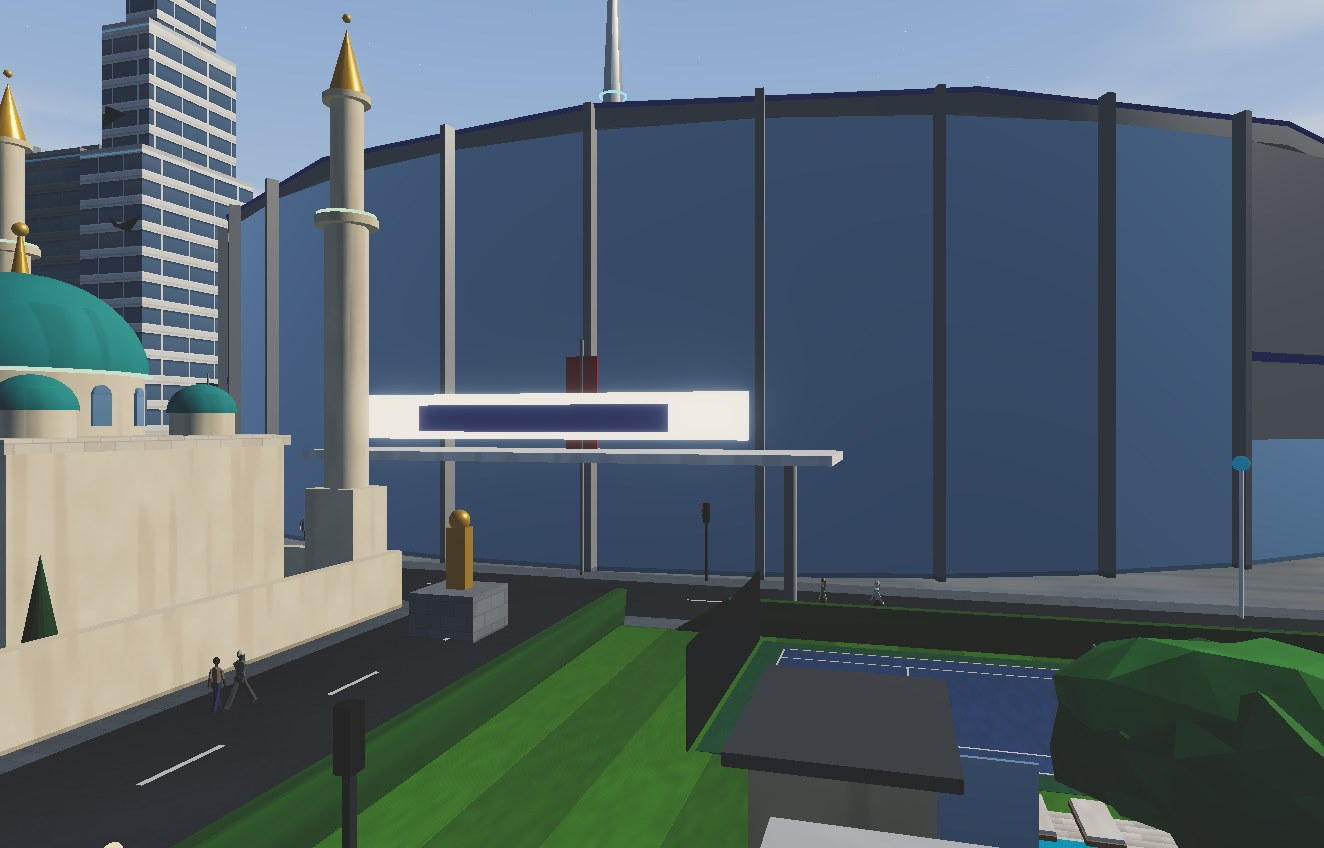
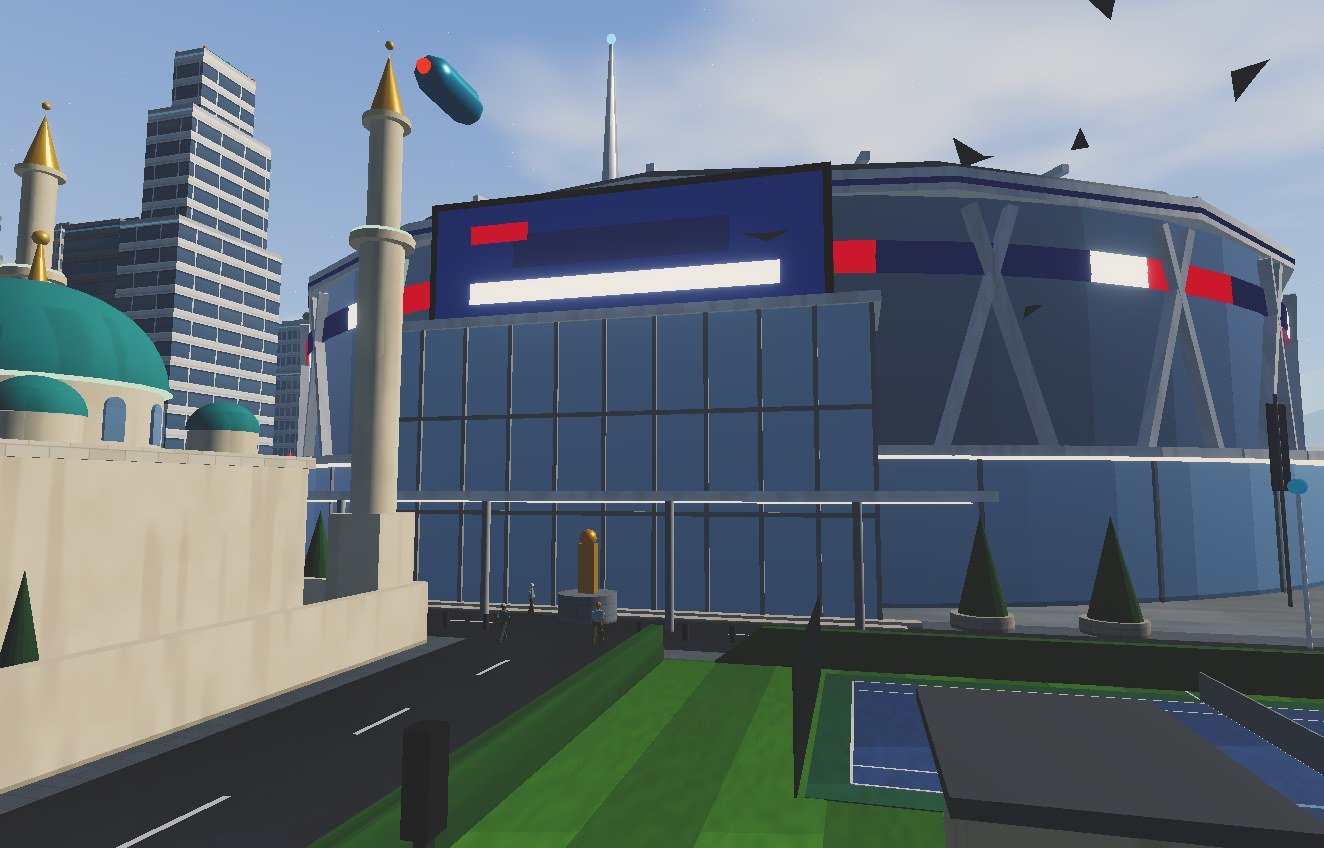
Arena exterior: glazed concourse under a lit canopy ring, leaning X fins on a set-back drum, LED media ribbon, stepped ribbed roof with lantern, entrance atrium with video wall and plaza
Claude-Session: https://claude.ai/code/session_014yo4DpHJhzR4RbKay17FEp

diff --git a/src/explorer/venues.ts b/src/explorer/venues.ts
@@ -486,59 +486,115 @@ export function nbaArena(add: Add, b: Building) {
   for (const [u, v, w, d] of [[0, 2.25, 5.8, 0.08], [0, -2.25, 5.8, 0.08], [3.05, 0, 0.08, 4.2], [-3.05, 0, 0.08, 4.2]] as const) A('box', 'glow', u, sy - 2.2, v, w, 1.6, d, '#2a6ad8');
   for (const s of [-1, 1]) for (const t of [-1, 1]) A('cyl', 'metal', s * 3.5, sy + 6, t * 2.6, 0.08, H - sy - 6, 0.08, '#8a8f96');
 
-  // ── the building: a glazed elliptical drum, metal fins, a roof with a glass skylight
-  const segs = 40;
+  // ── the building, in three layers: a glazed concourse ring at street level under a lit
+  // canopy, an upper drum set back behind leaning fins with an LED media ribbon, and a stepped
+  // roof of rings and radial ribs crowned by a glass lantern. The drum clears the bowl, whose
+  // outer rows reach about 57.4 m from the centre.
+  const R1 = Math.min(EW, ED) - 2;
+  const R2 = R1 - 3.5;
   const shellH = H - 4;
-  for (let k = 0; k < segs; k++) {
-    const a0 = (k / segs) * Math.PI * 2;
-    const a1 = ((k + 1) / segs) * Math.PI * 2;
-    const x0 = Math.cos(a0) * EW;
-    const z0 = Math.sin(a0) * ED;
-    const x1 = Math.cos(a1) * EW;
-    const z1 = Math.sin(a1) * ED;
-    const len = Math.hypot(x1 - x0, z1 - z0);
-    // box x along the segment: a turn of theta about y sends x to (cos theta, -sin theta)
-    const ang = Math.atan2(-(z1 - z0), x1 - x0);
-    const mx = (x0 + x1) / 2;
-    const mz = (z0 + z1) / 2;
-    // the main entrance (on +v) is all glass, the rest is glass below and metal panels above
-    const front = Math.sin((a0 + a1) / 2) > 0.85;
-    A('box', 'glass', mx, 0, mz, len + 0.1, front ? shellH : 8, 0.4, '#7aa0b8', ang);
-    if (!front) {
-      A('box', 'metal', mx, 8, mz, len + 0.1, shellH - 8, 0.5, k % 2 ? '#d6dbe2' : '#c6ccd4', ang);
-      A('box', 'glow', mx * 1.004, 13 + (k % 4) * 0.01, mz * 1.004, len + 0.1, 0.6, 0.2, team, ang);
+  const ring = (r: number, n: number, fn: (a: number, x: number, z: number, len: number, ang: number, k: number) => void) => {
+    for (let k = 0; k < n; k++) {
+      const a = ((k + 0.5) / n) * Math.PI * 2;
+      const len = (2 * Math.PI * r) / n;
+      // a box's local x points along (cos t, -sin t) after a turn t; the tangent at a is (-sin a, cos a)
+      fn(a, Math.cos(a) * r, Math.sin(a) * r, len, -a - Math.PI / 2, k);
     }
-    A('box', 'metal', x0 * 1.01, 0, z0 * 1.01, 0.5, shellH + 1.4, 0.9, '#e8ebef', ang);
+  };
+  const isFront = (a: number) => Math.sin(a) > 0.9;
+  // concourse: floor-to-ceiling glass with mullions, a white floor slab above; the glass stops
+  // only where the entrance atrium (30 m wide) stands in front of it
+  ring(R1, 64, (_a, x, z, len, ang, k) => {
+    if (z > 0 && Math.abs(x) < 15) return;
+    A('box', 'glass', x, 0, z, len + 0.05, 9, 0.3, '#7aa0b8', ang);
+    if (k % 2 === 0) A('box', 'metal', x * 1.003, 0, z * 1.003, 0.25, 9, 0.35, '#e8ebef', ang);
+  });
+  // the canopy is a ring of segments (a solid disc would cut across the bowl inside)
+  ring(R1 + 0.5, 64, (_a, x, z, len, ang) => {
+    A('box', 'plaster', x, 9, z, len + 0.1, 0.6, 6, '#f2f4f6', ang);
+    A('box', 'glow', x * 1.02, 8.92, z * 1.02, len + 0.1, 0.08, 3.5, '#fff2dc', ang);
+  });
+  // upper drum: dark glass behind leaning fins
+  ring(R2, 48, (_a, x, z, len, ang, k) => {
+    A('box', 'glass', x, 9.6, z, len + 0.05, shellH - 9.6, 0.3, '#3e566c', ang);
+    A('box', 'plaster', x * 1.012, 9.6, z * 1.012, 0.7, shellH - 9.6, 0.9, k % 2 ? '#f4f6f8' : '#d8dde4', ang, 0, k % 2 ? 0.32 : -0.32);
+  });
+  // LED media ribbon: blocks of team colour, second colour and white chasing round the drum
+  ring(R2 + 0.6, 72, (_a, x, z, len, ang, k) => {
+    const c = k % 6 < 3 ? team : k % 6 < 5 ? team2 : '#ffffff';
+    A('box', 'glow', x, shellH - 5.5, z, len + 0.05, 2.2, 0.12, c, ang);
+  });
+  // roof: a white rim, then stepped rings with radial ribs, then the lantern
+  A('cyl', 'plaster', 0, shellH, 0, R2 * 2 + 3, 1.6, R2 * 2 + 3, '#f2f4f6');
+  A('cyl', 'glow', 0, shellH + 0.5, 0, R2 * 2 + 3.15, 0.4, R2 * 2 + 3.15, team);
+  const steps = [R2 - 1, R2 - 12, R2 - 22, R2 - 31];
+  steps.forEach((r, k) => A('cyl', 'metal', 0, shellH + 1.6 + k * 1.5, 0, r * 2, 1.5, r * 2, k % 2 ? '#e6e9ed' : '#d6dbe1'));
+  for (let k = 0; k < 24; k++) {
+    const a = (k / 24) * Math.PI * 2;
+    for (let st2 = 0; st2 < steps.length - 1; st2++) {
+      const r0 = steps[st2];
+      const r1 = steps[st2 + 1];
+      const rm = (r0 + r1) / 2;
+      // ribs lie on top of each ring, running inwards
+      A('box', 'plaster', Math.cos(a) * rm, shellH + 1.6 + (st2 + 1) * 1.5, Math.sin(a) * rm, r0 - r1, 0.6, 0.6, '#f4f6f8', -a);
+    }
   }
-  // the ceiling seen from the bowl (an elliptical slab), the roof outside with a lit rim and a
-  // raised lantern of glass louvres over the court
+  const lr = steps[steps.length - 1] - 6;
+  A('cyl', 'glass', 0, shellH + 1.6 + steps.length * 1.5, 0, lr * 2, 3.2, lr * 2, '#9ec4d8');
+  for (let k = 0; k < 16; k++) {
+    const a = (k / 16) * Math.PI * 2;
+    A('box', 'plaster', Math.cos(a) * lr, shellH + 1.6 + steps.length * 1.5, Math.sin(a) * lr, 0.4, 3.2, 0.4, '#f4f6f8');
+  }
+  A('cyl', 'plaster', 0, shellH + 4.8 + steps.length * 1.5, 0, lr * 2 + 2, 0.6, lr * 2 + 2, '#f2f4f6');
+  A('cyl', 'glow', 0, shellH + 4.7 + steps.length * 1.5, 0, lr * 2 + 2.1, 0.15, lr * 2 + 2.1, '#ffffff');
+
+  // the ceiling seen from the bowl, with radial trusses, and the catwalks with light rigs
   const cy = H - 4.5;
-  A('cyl', 'metal', 0, cy, 0, EW * 2 - 0.6, 0.6, ED * 2 - 0.6, '#30343c');
-  for (let k = 0; k < 9; k++) A('box', 'metal', -CL / 2 - 10 + k * ((CL + 20) / 8), cy - 1.6, 0, 0.6, 1.6, ED * 1.6, '#4a4e56');
-  A('cyl', 'metal', 0, shellH, 0, EW * 2 + 1.2, 1.2, ED * 2 + 1.2, '#eceff3');
-  A('cyl', 'glow', 0, shellH + 1.2, 0, EW * 2 + 1.4, 0.3, ED * 2 + 1.4, team);
-  A('cyl', 'metal', 0, shellH + 1.2, 0, EW * 1.5, 2, ED * 1.5, '#e2e6eb');
-  A('cyl', 'glass', 0, shellH + 3.2, 0, CL + 14, 3, CW + 14, '#9ec4d8');
-  A('cyl', 'metal', 0, shellH + 6.2, 0, CL + 15, 0.5, CW + 15, '#eceff3');
-  A('cyl', 'glow', 0, shellH + 3.4, 0, CL + 14.3, 0.25, CW + 14.3, '#ffffff');
-  // catwalk and lighting rigs under the ceiling
+  A('cyl', 'metal', 0, cy, 0, R2 * 2 - 1, 0.6, R2 * 2 - 1, '#30343c');
+  for (let k = 0; k < 12; k++) {
+    const a = (k / 12) * Math.PI;
+    A('box', 'metal', 0, cy - 1.6, 0, R2 * 1.8, 1.6, 0.5, '#4a4e56', a);
+  }
   for (const s of [-1, 1]) {
     A('box', 'metal', 0, cy - 1.2, s * (CW / 2 + 6), CL + 16, 0.3, 1.2, '#5a5e66');
     for (let k = 0; k < 10; k++) A('box', 'glow', -CL / 2 - 6 + k * ((CL + 12) / 9), cy - 1.6, s * (CW / 2 + 6), 0.7, 0.4, 0.7, '#fff6e0');
   }
-  // entrance plaza: canopy, team name sign, statue plinth, banners
-  A('box', 'plaster', 0, 7, ED + 4, 30, 0.5, 8, '#f2f4f6');
-  for (const s of [-1, 1]) A('cyl', 'metal', s * 13, 0, ED + 7.5, 0.6, 7, 0.6, '#d8dce2');
-  A('box', 'glow', 0, 8.2, ED + 7.9, 22, 2.4, 0.3, '#ffffff');
-  A('box', 'glow', 0, 8.6, ED + 8.1, 14, 1.4, 0.2, team);
-  A('box', 'stone', 0, 0, ED + 16, 3, 2, 3, '#8a8f96');
-  A('box', 'gold', 0, 2, ED + 16, 0.9, 2.6, 0.7, '#d8b25a');
-  A('sphere', 'gold', 0, 4.9, ED + 16, 0.9, 0.9, 0.9, '#d8b25a');
-  for (let k = 0; k < 8; k++) {
-    const a = (k / 8) * Math.PI * 2;
-    const px = Math.cos(a) * (EW + 2);
-    const pz = Math.sin(a) * (ED + 2);
-    A('cyl', 'metal', px, 0, pz, 0.2, 14, 0.2, '#c8ccd2');
-    A('box', 'cloth', px, 7, pz, 0.1, 6, 2, k % 2 ? team : team2, a);
+
+  // ── main entrance: a projecting glass atrium with a video wall above, a deep canopy, a plaza
+  const az = R1 - 2;
+  A('box', 'glass', 0, 0, az + 3.5, 30, 17, 7, '#86aec6');
+  for (let k = 0; k <= 10; k++) A('box', 'metal', -15 + k * 3, 0, az + 7.05, 0.25, 17, 0.25, '#e8ebef');
+  for (const y of [5.6, 11.3]) A('box', 'metal', 0, y, az + 7.05, 30, 0.25, 0.25, '#e8ebef');
+  A('box', 'plaster', 0, 17, az + 3.5, 31, 0.6, 7.6, '#f2f4f6');
+  // the video wall: a dark frame, the screen in the club's colours, the team name in light
+  A('box', 'dark', 0, 17.6, az + 4.5, 26, 8.4, 0.8, '#0e1014');
+  A('box', 'glow', 0, 18.1, az + 4.95, 25, 7.4, 0.08, '#14306a');
+  A('box', 'glow', 0, 21.2, az + 5.0, 14, 2.2, 0.06, team);
+  A('box', 'glow', 0, 19.0, az + 5.0, 20, 1.4, 0.06, '#ffffff');
+  A('box', 'glow', -8, 23, az + 5.0, 4, 1.2, 0.06, team2);
+  // canopy over the doors on slender columns, with a lit soffit
+  A('box', 'plaster', 0, 6.5, az + 9, 40, 0.5, 6, '#f4f6f8');
+  A('box', 'glow', 0, 6.4, az + 9, 38, 0.08, 5, '#fff2dc');
+  for (const s of [-1, 1]) for (const d of [-14, -5]) A('cyl', 'metal', s * Math.abs(d), 0, az + 11.5, 0.45, 6.5, 0.45, '#d8dce2');
+  // plaza: broad steps, planters with trees, bollards, a statue, flags
+  for (let k = 0; k < 3; k++) A('box', 'stone', 0, 0, az + 7.3 + k * 0.8, 34 - k * 1.5, 0.45 - k * 0.15, 0.8, '#cfc8bc');
+  for (const s of [-1, 1]) {
+    for (const d of [20, 26]) {
+      A('cyl', 'stone', s * d, 0, az + 6, 3, 0.8, 3, '#b8b0a4');
+      A('cone', 'leaf', s * d, 0.8, az + 6, 2.4, 5, 2.4, '#3a6a34');
+    }
+    for (let k = 0; k < 6; k++) A('cyl', 'metal', s * (4 + k * 2.2), 0, az + 13.2, 0.3, 0.9, 0.3, '#5a5e66');
+  }
+  A('cyl', 'stone', 0, 0, az + 9.5, 3.2, 1.6, 3.2, '#8a8f96');
+  A('box', 'gold', 0, 1.6, az + 9.5, 0.9, 2.6, 0.7, '#d8b25a');
+  A('sphere', 'gold', 0, 4.5, az + 9.5, 0.9, 0.9, 0.9, '#e2a63a');
+  for (let k = 0; k < 10; k++) {
+    const a = ((k + 0.5) / 10) * Math.PI * 2;
+    if (isFront(a)) continue;
+    const px = Math.cos(a) * (R1 + 4);
+    const pz = Math.sin(a) * (R1 + 4);
+    A('cyl', 'metal', px, 0, pz, 0.22, 13, 0.22, '#c8ccd2');
+    A('box', 'cloth', px, 7, pz, 0.1, 5.4, 1.8, k % 2 ? team : team2, -a);
   }
 }
+

diff --git a/PHASE2_REPORT.md b/PHASE2_REPORT.md
@@ -550,6 +550,16 @@ Requested: "Make a basketball NBA sized stadium, make a football Premier League 
 - **Masts.** Four masts rise from the stair towers. Each has red beacons, four stay cables to the nearest points of the leading edges, and a back-stay to the ground.
 - **Photos.** `docs/screenshots/venues/stadium-roof.jpg` and `stadium-roof-night.jpg` are new; the stadium exterior, aerial and stands photos were re-shot.
 
+**Follow-up: arena exterior.** Requested: "make the arena look better too". Before, it was a plain drum of identical panels with a flat roof disc and a small canopy.
+- **Concourse.** A glazed concourse ring at street level, 9 m high with mullions, sits under a continuous canopy ring with a lit soffit. Both are built as rings of segments, because a solid disc would cut across the bowl inside.
+- **Upper drum.** It is set back behind 48 leaning white and silver fins that cross in an X pattern over dark glass.
+- **LED ribbon.** A 72-segment media ribbon runs round the drum in team colour, second colour and white.
+- **Roof.** A white rim with a team-colour band, four stepped rings with 24 radial ribs, and a glass lantern with mullions, a white cap and a lit ring.
+- **Ceiling.** Inside, the ceiling gained radial trusses. It is sized to the drum, so it no longer pokes out of the walls.
+- **Entrance.** A projecting glass atrium, 30 m wide and 17 m high with a mullion grid, carries a framed video wall (team-colour screen with lit name bands). In front are a 40 m canopy on slender columns with a lit soffit, broad steps, planters with trees, bollards, a gold statue on a plinth, and banners round the building.
+- **Fit.** The drum still clears the bowl: the outer rows reach about 57.4 m from the centre and the drum is 59.5 m.
+- **Photos.** The arena exterior, roof, entrance, interior and court, plus night exterior and roof, are in `docs/screenshots/venues/`.
+
 ## Limitations and unfinished items
 
 - **Frame-rate targets unproven** (55 fps at 5× in Universe; 60 fps with ≥ 150 figures on medium): no GPU in this environment. Measured relative to the baseline under software rendering, the current build is 2–3× slower at medium (see Phase 4).
